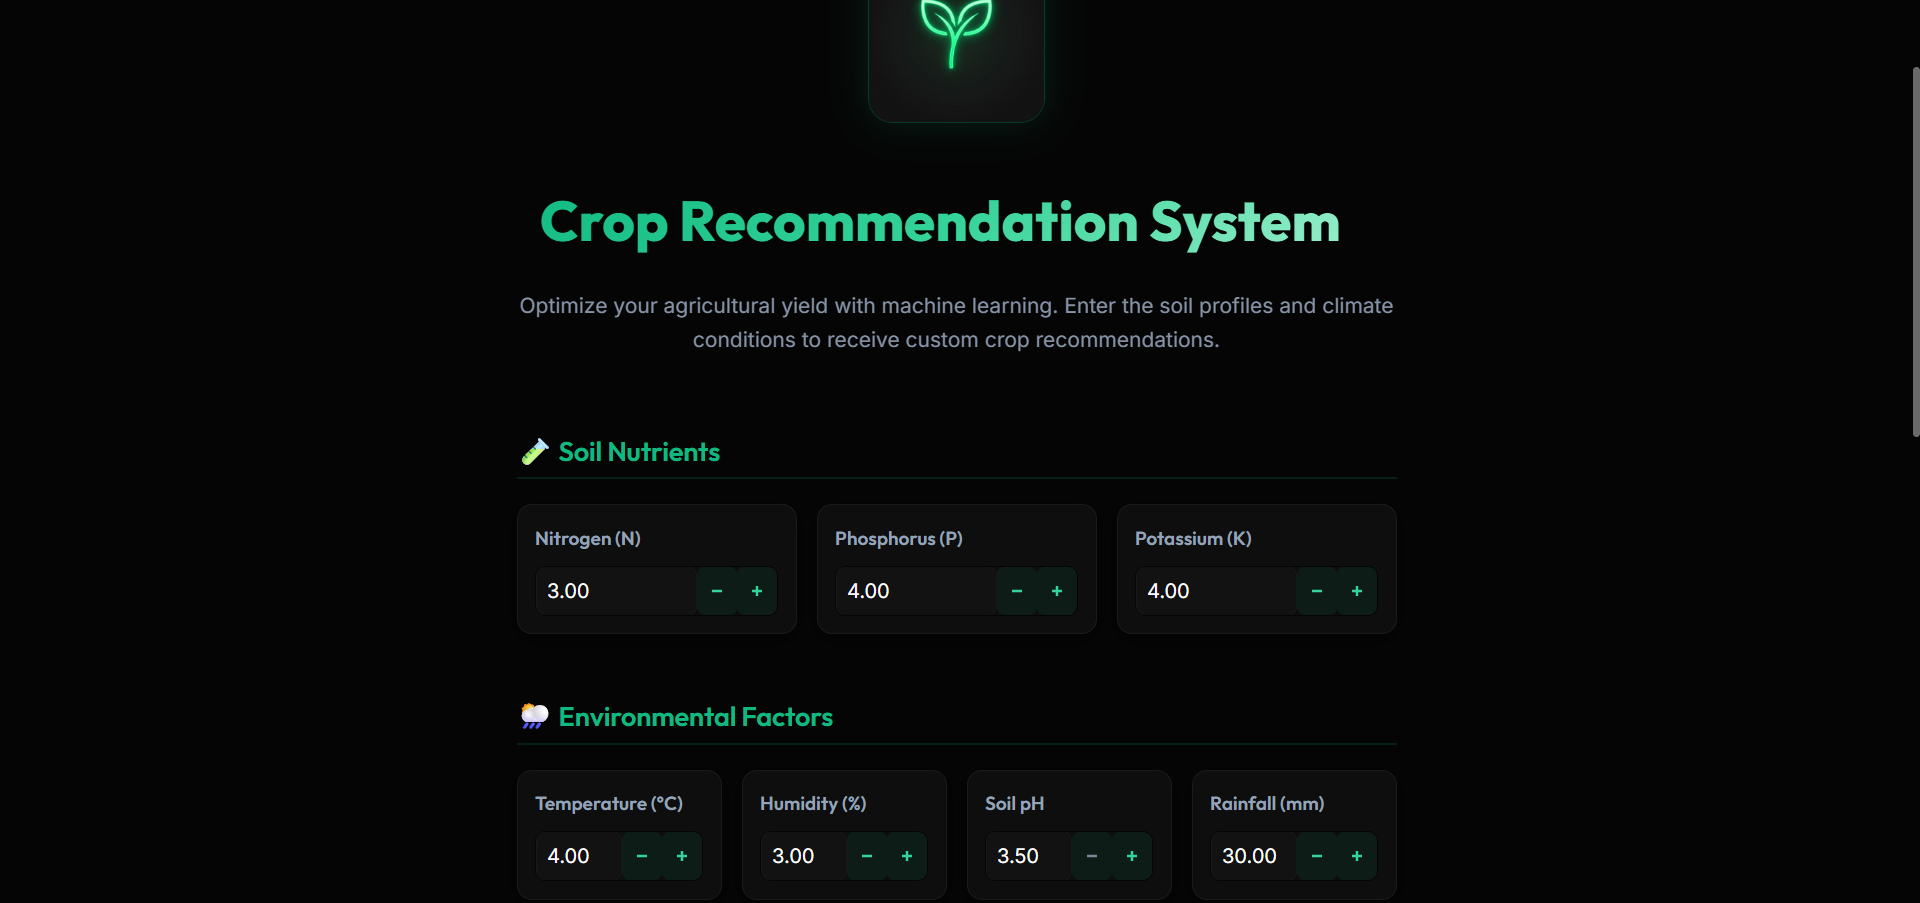
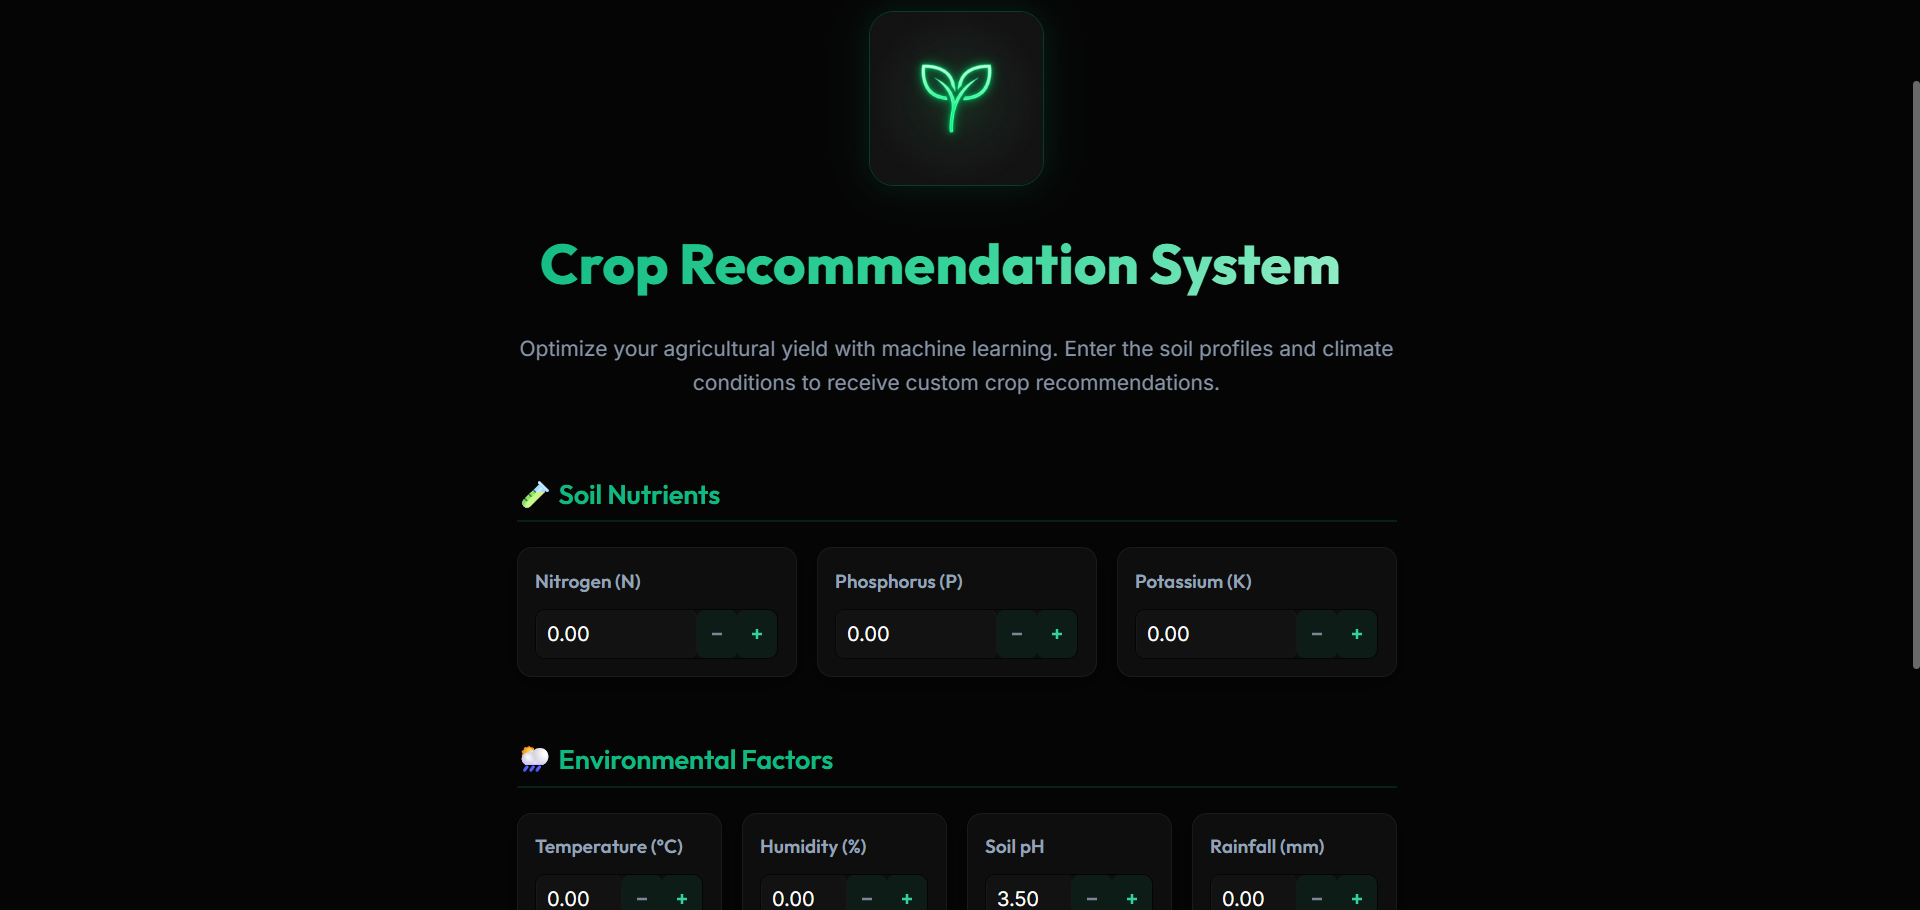
docs: overhaul README with enhanced feature details, setup instructions, and added preview screenshot assets

diff --git a/README.md b/README.md
@@ -1,84 +1,147 @@
+<div align="center">
+  <img src="assets/crop_logo.png" alt="Crop Recommendation System Logo" width="180px" style="border-radius: 20px;"/>
+</div>  
+  
 # 🌾 Crop Recommendation System
 
-An intelligent Machine Learning-based system designed to assist farmers and agricultural enthusiasts in choosing the most suitable crop for their land. By analyzing soil composition and environmental conditions, the system provides high-accuracy recommendations to maximize yield and sustainability.
+<div align="center">
+  [![Python Version](https://img.shields.io/badge/python-3.8%2B-blue.svg)](https://www.python.org/)
+  [![Streamlit App](https://img.shields.io/badge/Streamlit-1.28%2B-FF4B4B.svg)](https://streamlit.io/)
+  [![Scikit-Learn](https://img.shields.io/badge/Scikit--Learn-1.3%2B-F7931E.svg)](https://scikit-learn.org/)
+  [![Model Accuracy](https://img.shields.io/badge/Model%20Accuracy-99%25-green.svg)](#-model-performance)
+
+**An intelligent Machine Learning-based system designed to assist farmers and agricultural enthusiasts in choosing the most suitable crop for their land. By analyzing soil composition and environmental conditions, the system provides high-accuracy recommendations to maximize yield and sustainability.**
+
+</div>
 
 ---
 
-## 🚀 Features
+## 🚀 Key Features
 
-- **Precision Recommendations**: Predicts the best crop based on 7 critical environmental and soil parameters.
-- **Top-3 Suggestions**: Provides the primary recommendation along with the next two most likely alternatives.
-- **Confidence Scoring**: Displays a probability percentage for each recommendation.
-- **Interactive UI**: A clean, modern, and responsive web interface built with Streamlit.
-- **Instant Results**: Real-time processing of user inputs.
-
----
-
-## 🧠 How It Works
-
-The system utilizes a **Random Forest Classifier** trained on historical agricultural data. It considers the following inputs:
-
-| Parameter          | Description                         |
-| :----------------- | :---------------------------------- |
-| **Nitrogen (N)**   | Ratio of Nitrogen content in soil   |
-| **Phosphorus (P)** | Ratio of Phosphorus content in soil |
-| **Potassium (K)**  | Ratio of Potassium content in soil  |
-| **Temperature**    | Temperature in degrees Celsius (°C) |
-| **Humidity**       | Relative humidity in %              |
-| **pH Value**       | PH value of the soil (3.5 - 9.0)    |
-| **Rainfall**       | Rainfall in mm                      |
+- **Precision Recommendations**: Predicts the best crop based on 7 critical soil and environmental parameters.
+- **Top-3 Crop Alternatives**: Provides the primary recommendation along with the next two most likely alternatives.
+- **Real-time Confidence Score**: Displays a probability percentage for each suggested crop.
+- **Premium Dark UI**: A modern, interactive, and responsive web interface designed with custom CSS on Streamlit.
+- **Fast & Efficient**: Lightweight joblib serialization ensures instant predictions.
 
 ---
 
-## 🛠 Tech Stack
+## 🧠 Soil & Environmental Parameters
 
-- **Language**: Python
-- **Framework**: Streamlit (Web App UI)
-- **ML Library**: Scikit-Learn (Model training & processing)
-- **Data Handling**: Pandas & NumPy
-- **Serialization**: Joblib (Model & Scaler loading)
+The system considers the following agricultural parameters to make predictions:
+
+| Parameter          | Metric / Range | Description                            |
+| :----------------- | :------------- | :------------------------------------- |
+| **Nitrogen (N)**   | 0 - 300        | Ratio of Nitrogen content in soil      |
+| **Phosphorus (P)** | 0 - 150        | Ratio of Phosphorus content in soil    |
+| **Potassium (K)**  | 0 - 200        | Ratio of Potassium content in soil     |
+| **Temperature**    | 0 - 50 °C      | Ambient temperature in degrees Celsius |
+| **Humidity**       | 0 - 100%       | Relative atmospheric humidity          |
+| **pH Value**       | 3.5 - 9.0      | Soil pH scale (acidity or alkalinity)  |
+| **Rainfall**       | 0 - 2000 mm    | Average annual or seasonal rainfall    |
+
+---
+
+## 📊 Model Performance
+
+- **Machine Learning Algorithm**: Random Forest Classifier
+- **Feature Preprocessing**: `StandardScaler` for feature scaling
+- **Dataset**: High-quality historical agricultural records containing multiple crop classes (rice, maize, chickpea, kidneybeans, pigeonpeas, mothbeans, mungbean, blackgram, lentil, pomegranate, banana, mango, grapes, watermelon, muskmelon, apple, orange, papaya, coconut, cotton, jute, coffee).
+- **Model Accuracy**: **`99.09%`** achieved on the validation dataset.
+
+---
+
+## 💻 Tech Stack
+
+- **Backend & Frontend**: Python & Streamlit (with custom CSS injection)
+- **Machine Learning**: Scikit-Learn
+- **Data Analysis & Handling**: Pandas & NumPy
+- **Model Serialization**: Joblib (loads `crop_recommendation_model.pkl`, `scaler.pkl`, `label_encoder.pkl`)
+
+---
+
+## ⚙ Installation & Setup
+
+Follow these steps to run the application locally on your machine:
+
+### Prerequisites
+
+Make sure you have **Python 3.8 or higher** installed.
+
+### 1. Clone the Repository
+
+```bash
+git clone https://github.com/Aniruddhasain7/AI-Crop-Recommendation-System.git
+cd AI-Crop-Recommendation-System
+```
+
+### 2. Create a Virtual Environment (Recommended)
+
+```bash
+# On Windows
+python -m venv venv
+venv\Scripts\activate
+
+# On macOS/Linux
+python3 -m venv venv
+source venv/bin/activate
+```
+
+### 3. Install Dependencies
+
+```bash
+pip install -r requirements.txt
+```
+
+### 4. Run the Streamlit Web Application
+
+```bash
+streamlit run app.py
+```
+
+This will start a local server and automatically open the application in your default web browser (usually at `http://localhost:8501`).
 
 ---
 
 ## 📁 Project Structure
 
 ```text
-├── assets/                     # UI screenshots 
-├── app.py                      # Main Streamlit application script
-├── Crop_Recommendation.ipynb    # Research and Model training notebook
-├── Crop_recommendation.csv      # Raw dataset for crop prediction
-├── crop_recommendation_model.pkl # Saved Random Forest Classifier model
+├── .streamlit/                 # Streamlit configuration files
+├── assets/                     # Application logo and UI screenshots
+│   ├── crop_logo.png
+│   ├── ss1.png
+│   └── ss2.png
+├── app.py                      # Main Streamlit web application
+├── Crop_Recommendation.ipynb    # Model training & analysis notebook
+├── Crop_recommendation.csv      # Raw training dataset
+├── crop_recommendation_model.pkl# Serialized Random Forest Classifier
 ├── label_encoder.pkl            # Serialized label encoder for classes
 ├── scaler.pkl                  # Serialized feature scaler
-├── requirements.txt            # Required Python libraries
+├── requirements.txt            # Python dependencies
 └── README.md                   # Project documentation
 ```
 
 ---
 
-## 📊 Model Performance
-
-- **Algorithm**: Random Forest Classifier
-- **Preprocessing**: StandardScaler for feature scaling.
-- **Accuracy**: Optimized for high precision in diverse environmental conditions.
-
----
-
 ## 📸 Application Preview
 
-### User Interface & Prediction
+### 1. User Interface & Recommendation Output
+
+The modern dark-themed interface showing the input form and recommendation card with confidence score.
 
 ![Prediction Output](assets/ss1.png)
 
-### Probability Analysis
+### 2. Top-3 Crop Probabilities
 
-![Prediction Output](assets/ss2.png)
+Detailed analytics showing alternative crop recommendations and their respective probabilities.
+
+![Probability Analysis](assets/ss2.png)
 
 ---
 
 ## 🔮 Future Enhancements
 
-- 📡 **IoT Integration**: Real-time soil monitoring using sensor networks.
-- ☁ **Weather API**: Automated climate data fetching based on GPS location.
-- 🌐 **Localization**: Multi-language support to empower regional farmers.
-- 🧪 **Fertilizer Guidance**: Smart nutrient recommendations based on crop choice.
+- 📡 **IoT & Sensors**: Real-time soil monitoring by fetching inputs directly from physical sensor nodes.
+- ☁ **Weather API Integration**: Fetch ambient temperature, humidity, and rainfall dynamically using GPS/location coordinates.
+- 🌐 **Multi-Language Support**: Localization in regional languages to support local farmers.
+- 🧪 **Fertilizer Recommendation**: Provide smart nutrient/fertilizer suggestions based on the predicted crop and soil deficits.
